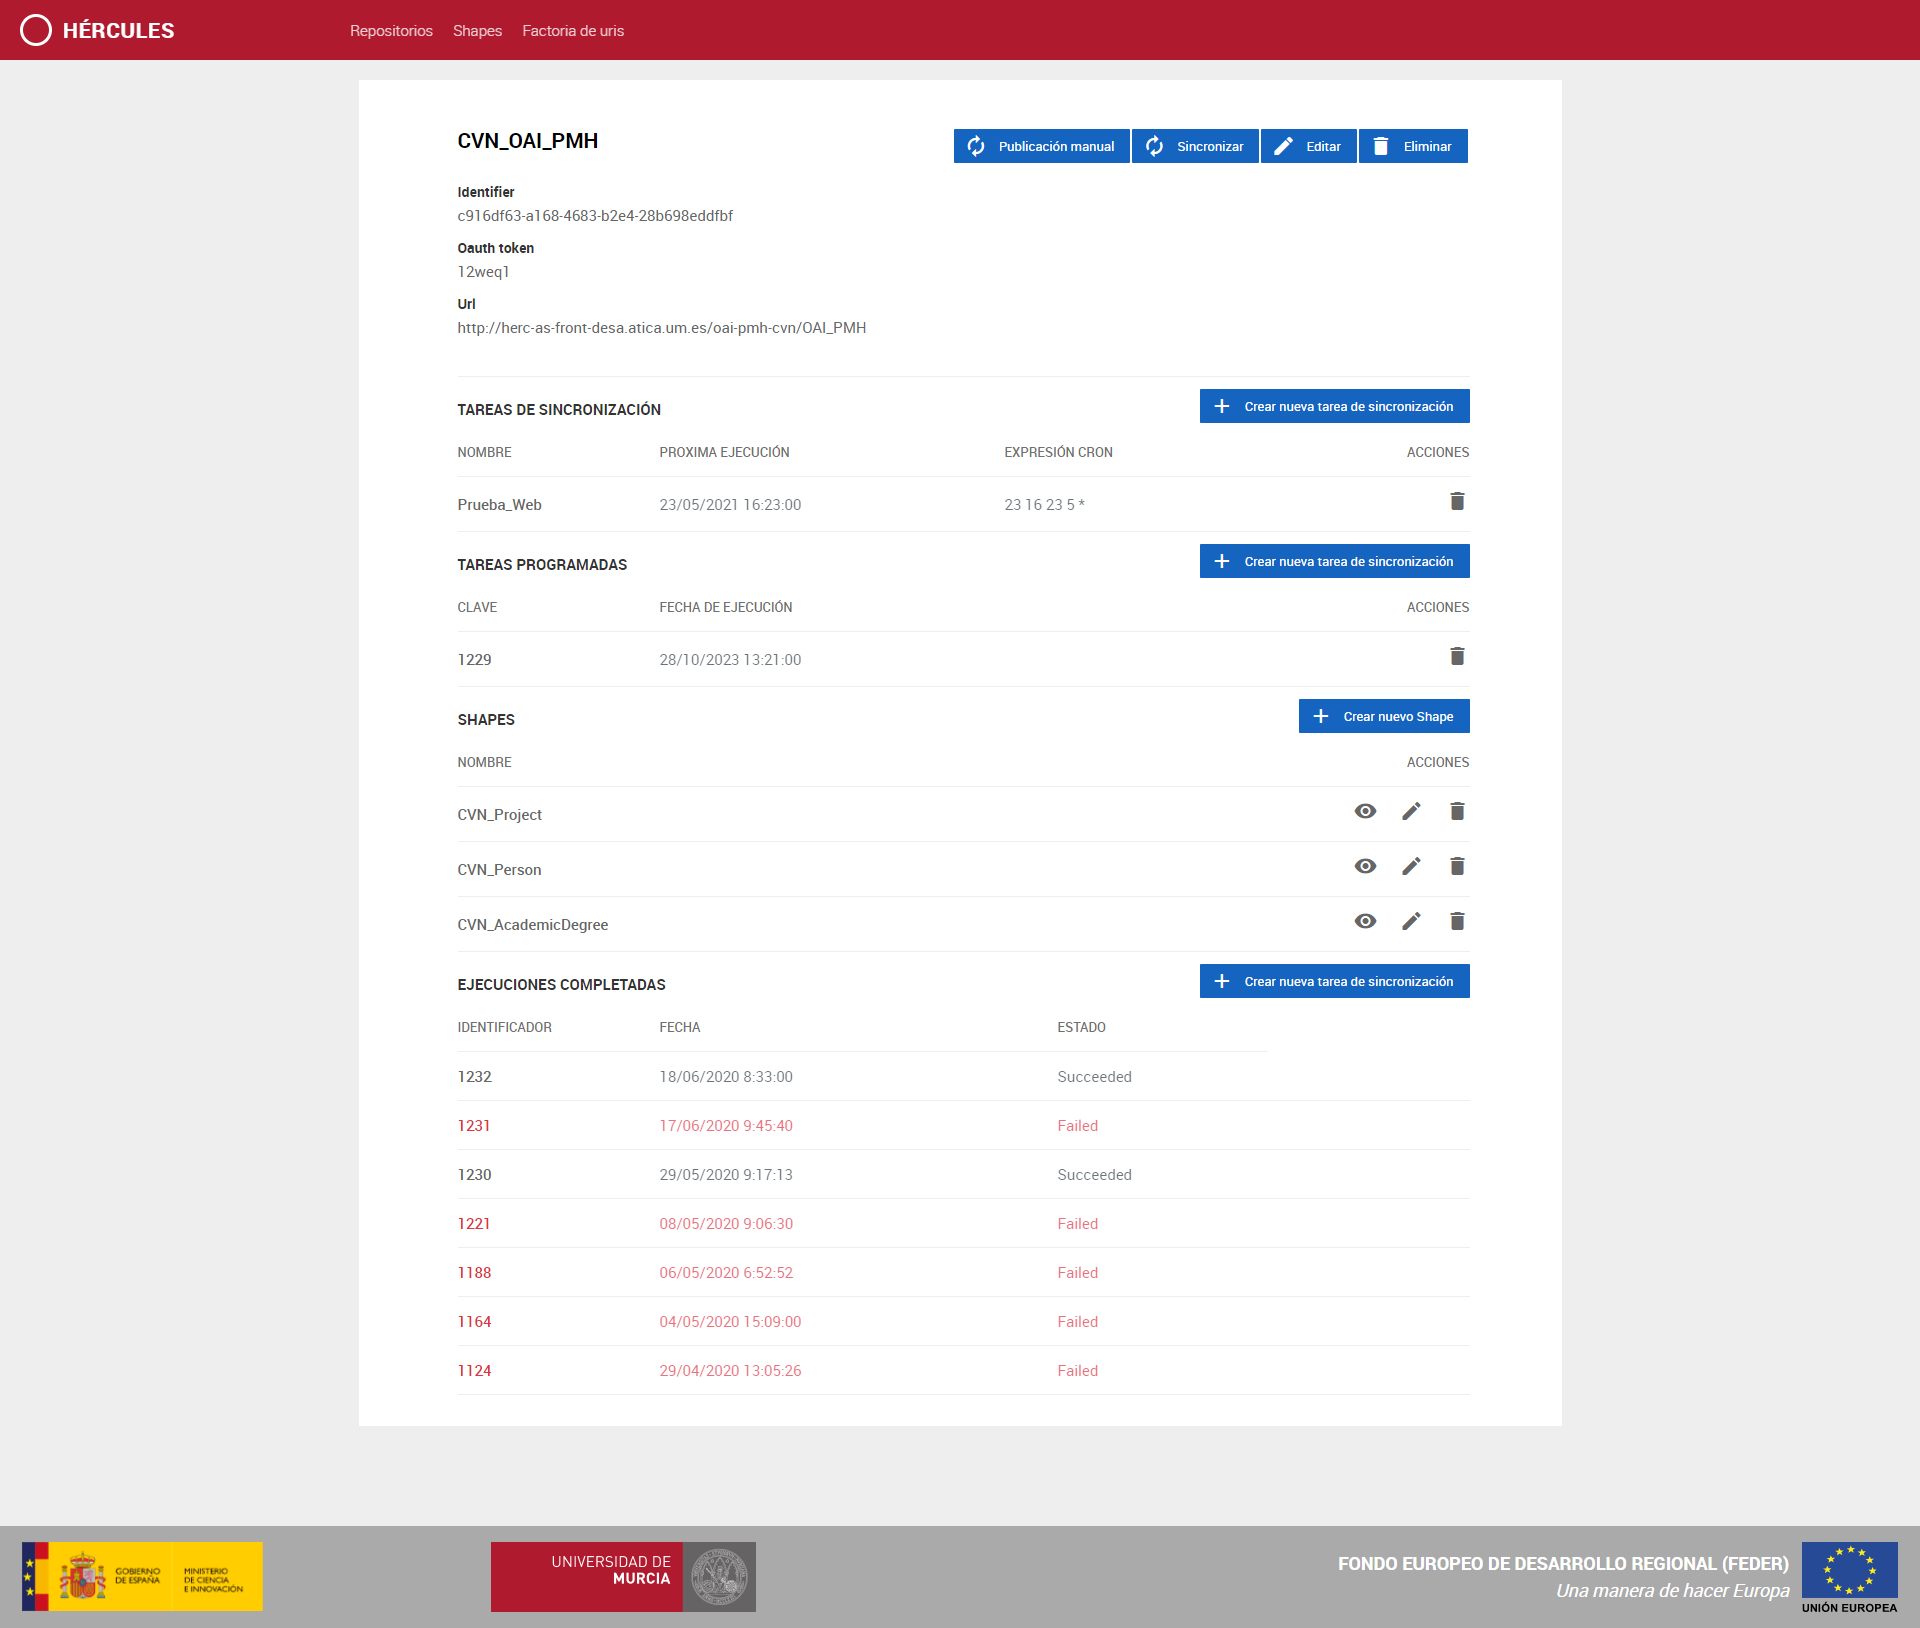
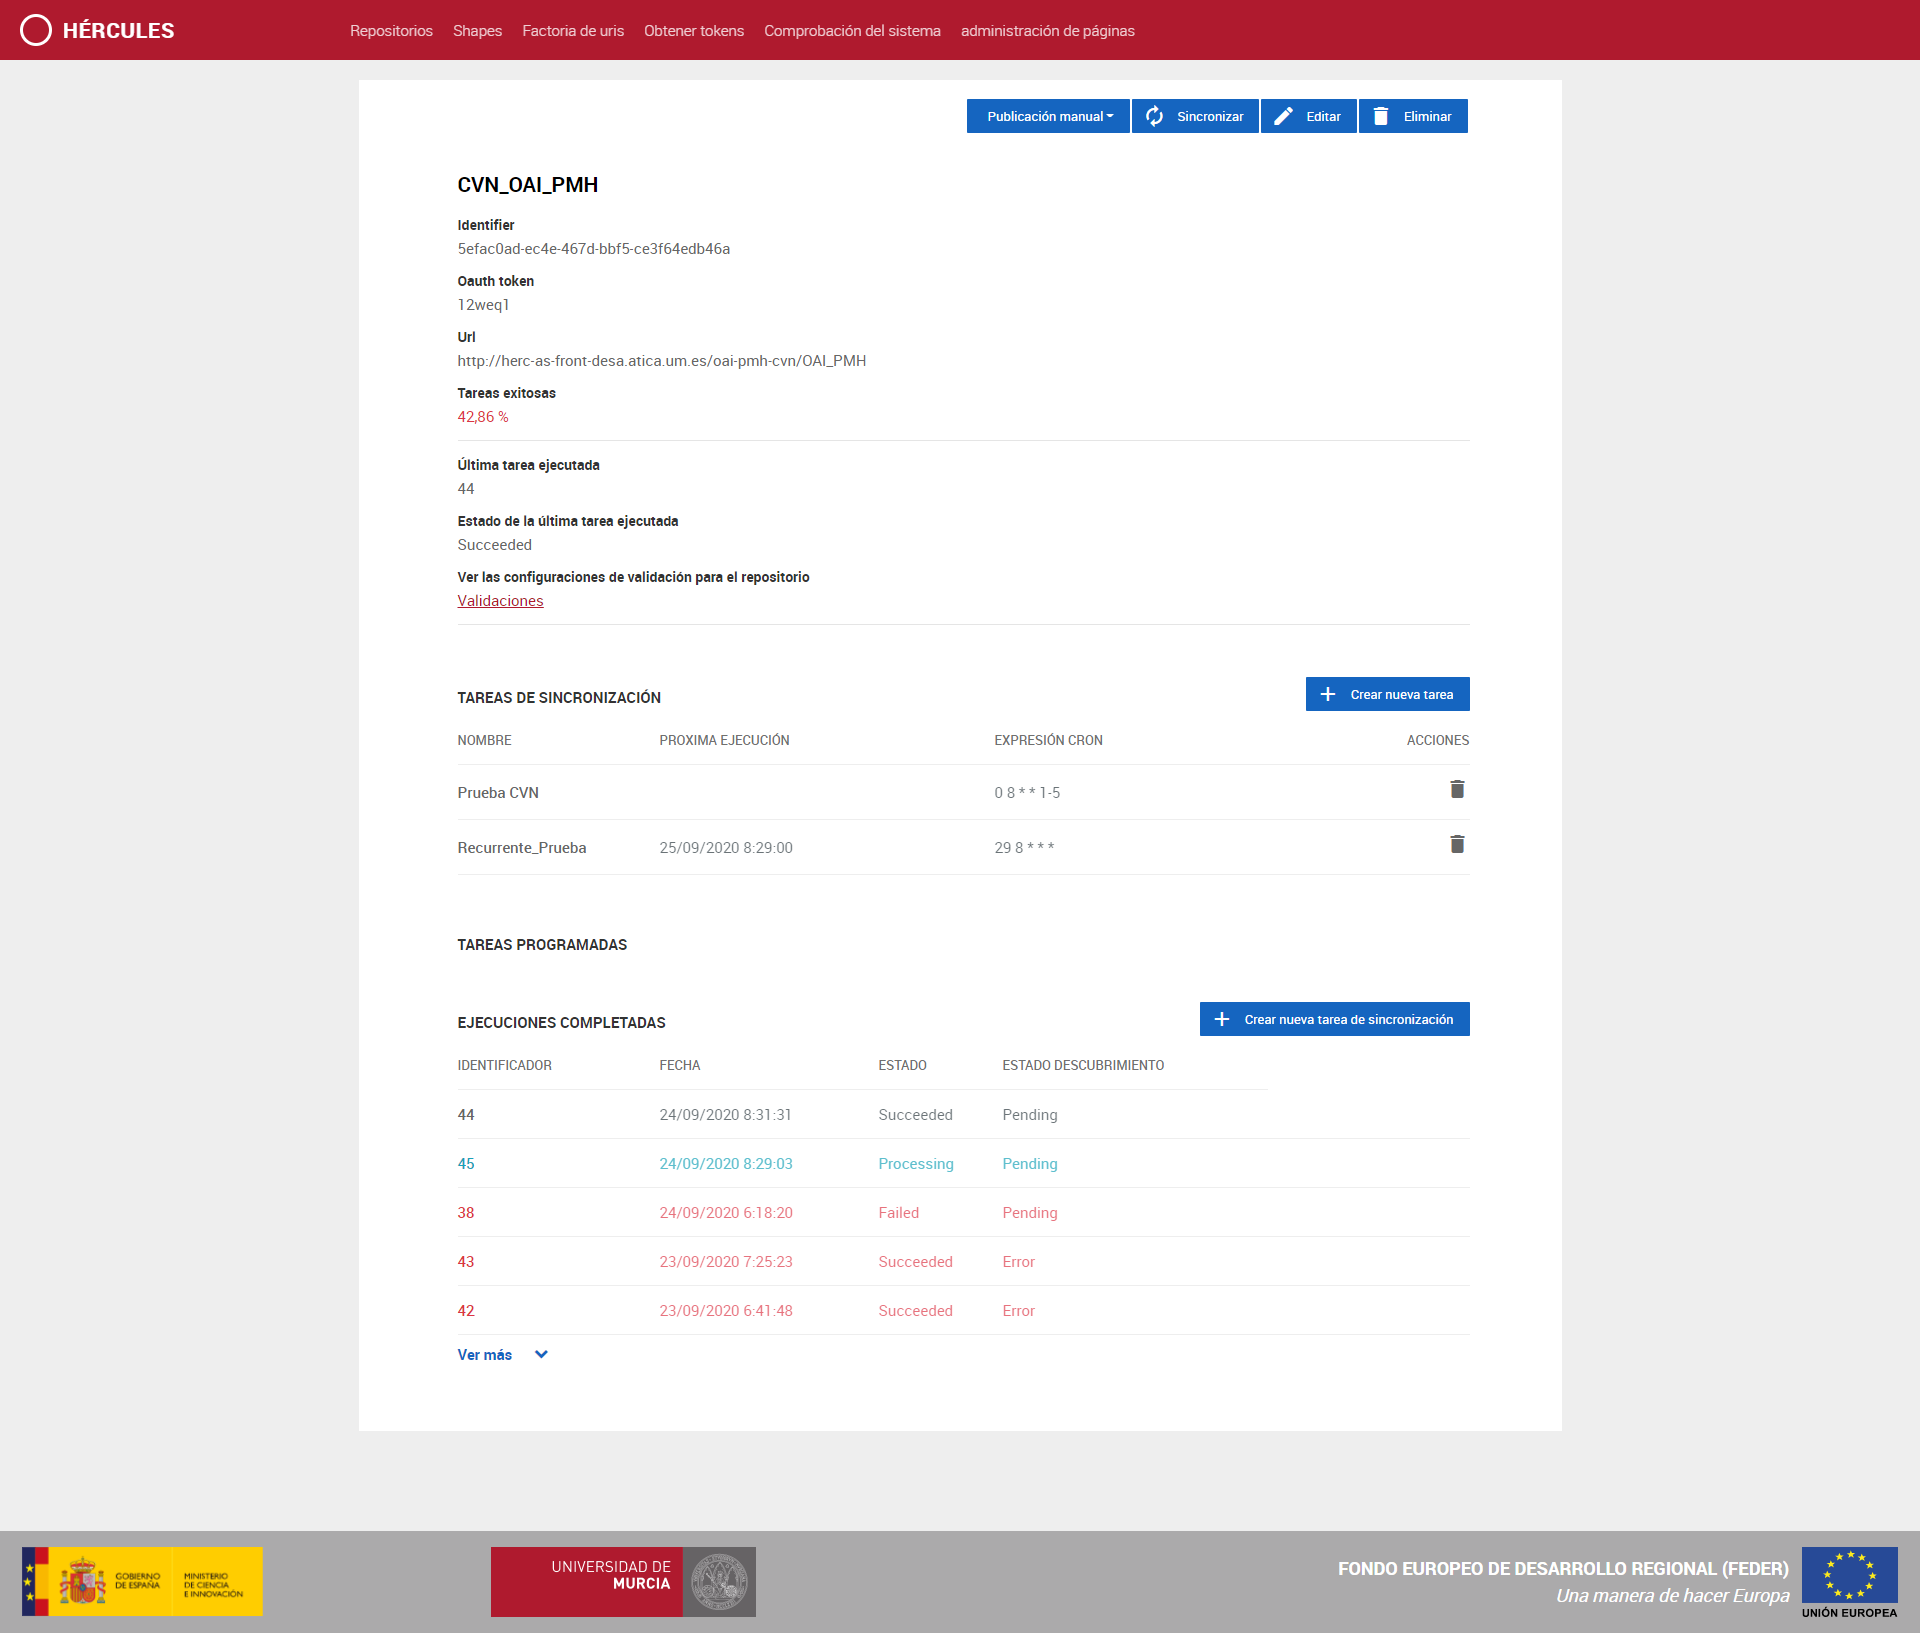
update manual de usuario

diff --git a/FrontEndCarga/Manual de usuario.md b/FrontEndCarga/Manual de usuario.md
@@ -4,7 +4,11 @@
 
 [Introducción](#introduccion)
 
-[Página principal. Listado de repositorios](#página-principal-listado-de-repositorios)
+[Página principal. Listado de repositorios](#página-principal-listado-de-repositorios) 
+
+[Página de un repositorio](#página-de-un-repositorio)
+
+[Configuraciones de validación para un repositorio](#vista-del-listado-de-configuraciones-de-validación-(Shapes)-para-un-repositorio)
 
 [Vista de una tarea](#vista-de-una-tarea)
 
@@ -34,26 +38,38 @@ Desde este listado se puede crear un repositorio nuevo con el botón "+" que se 
 
 ![](img/repositorios.png)
 
-Al acceder a un repositorio podemos ver las validaciones que tiene vinculados ese repositorio, 
-así como las tareas de sincronización programadas y el histórico de sincronizaciones ejecutadas que ha tenido, 
-como se muestra a continuación. 
+Al acceder a un repositorio podemos ver las validaciones configuradas que tiene vinculados ese repositorio, mediante el enlace que aparece en la sección de Ver las configuraciones de validación para el respositorio, 
+así como las tareas de sincronización programadas y el histórico de sincronizaciones ejecutadas que ha tenido. En este histórico aparecen las últimas 5 tareas ejecutadas, para poder ver el resto basta con pulsar en ver más para que se desplieguen el resto de tareas ejecutadas. En esté último apartado en el que se muestran las tareas ejecutadas aparecen dos estados:
+ - Estado: Que indica la validación de los rdfs y su posterior encolado para su procesamiento. Pueden aparecer errores de ejecución y de validación de las diferentes configuraciones de validación que tiene el repositorio
+ - Estado de descubrimiento: Que indica la publicación de los rdfs y el desambiguamiento de las urls formadas. Pueden aparecer errores de ejecución y de desambiguación de las urls, lo que dará al usuario la opción de elegir la correcta.
+como se muestra en el siguiente apartado. 
+
+Página de un repositorio
+-----------------------------------------
 
 ![](img/repositorio.png)
 
-Desde esta pantalla se pueden crear nuevos validaciones asociados al repositorio y nuevas 
-sincronizaciones. Además se puede editar o eliminar el repositorio y modificar la
+Desde esta pantalla se pueden crear nuevas sincronizaciones. Además se puede editar o eliminar el repositorio y modificar la
 información asociada a él (validaciones y tareas):
- - Modificar shape.
- - Eliminar shape.
  - Eliminar tarea programada.
  - Eliminar tarea recurrente.
 
-También se puede acceder a la información de las tareas, tanto de tareas de ejecución
+Desde la página de un repositorioo también se puede acceder a la información de las tareas, tanto de tareas de ejecución
 única como de tareas recurrentes, como se muestra en los apartados siguientes.
+Como se ha mencionado anteriormente para acceder a las configuraciones de validación hay un enlace en la sección Ver las configuraciones de validación para el respositorio,
+ acontinuación se muestra la vista de configuraciones para un repositorio
+
+
+Vista del listado de configuraciones de validación (Shapes) para un repositorio
+------------------
+Un shape es una configuración de validación que se configura en un repositorio y sirve para comprobar que los elementos que se van a sincornizar en el repositorio
+tienen una estructura válida.
+Desde este vista se muestran los shapes configurados para un repositorio, desde esta página se puede tanto crear un nuevo shape para el repositorio como eliminar, modificar y visualizar uno ya creado.
+
+![](img/ShapesRepo.png)
 
 Vista de una tarea
 ------------------
-
 Se denomina una tarea a la programación de una sincronización de un repositorio. Cuando está sincronización 
 se realiza, esta tarea pasa a ser una tarea ejecutada. 
 
@@ -63,9 +79,21 @@ y un botón con el cual se puede volver a lanzar. Los datos mostrados son:
  - La tarea ejecutada.
  - El estado de la tarea, que puede ser que se haya ejecutado con éxito o esté en estado fallido.
  - La fecha de la ejecución en formato UTC.
- - Error que haya causado el fallo de la tarea.
- 
-![](img/JobFailDetails.png)
+ - Error que haya causado el fallo de la tarea, en el caso de que haya ocurrido algún error.
+ - Errores en el descubrimiento, pueden ser del tipo error, los cuales se pueden volver a reintentar o ProcessedDissambiguationProble, que requieren la intervención del usuario.
+
+Vista de una tarea con errores de descubrimiento:
+![](img/JobDiscoverError.png)
+En está vista se ve que tenemos un error asociado a la tarea de ejecución en el descubrimiento y otro de desambiguación que requiere la intervención del usuario, a continución se muestrán las vistas de
+estos errores.
+En la siguiente imágen se muestra un error de ejecución que se haya podido dar por un error puntual, se puede volver a lanzar pulsando el botón de reintentar.
+
+![](img/DiscoverError.png)
+
+A continuación se muestra un error en el que se requiere la intervención del usuario eligiendo la opción que sea correcta enter las opciones disponibles o no elegir ninguna opción
+en el caso de que no sea ninguna la opción correcta.
+
+![](img/DiscoverUser.png)
 
 Vista de una tarea recurrente
 -----------------------------
@@ -115,15 +143,11 @@ Interfaz desde la que se puede:
 
 Publicación y validación de rdf
 ----------------
-A esta interfaz se accede desde la vista de detalles de un repositorio, desde la parte superior donde aparece la opción publicación manual.
-Desde esta interfaz se puede: 
+Se accede desde la vista de detalles de un repositorio, desde la parte superior donde aparece la opción publicación manual, se despliega un menú con 3 opciones.
  - Obtener el rdf de un repositorio.
  - Validar un rdf propio o descargado del propio repositorio, tanto por medio de un rdf de validación propio como por los shapes configurados en el propio repositorio.
  - Publicar un rdf, pasando antes por los sahpes configurados en el repositorio.
 Cuando se obtenga un error de validación se mostrará una página de error como la que aparece a continuación.
-
-Interfaz:
-![](img/manualPublish.png)
 
 Error de validación:
 
